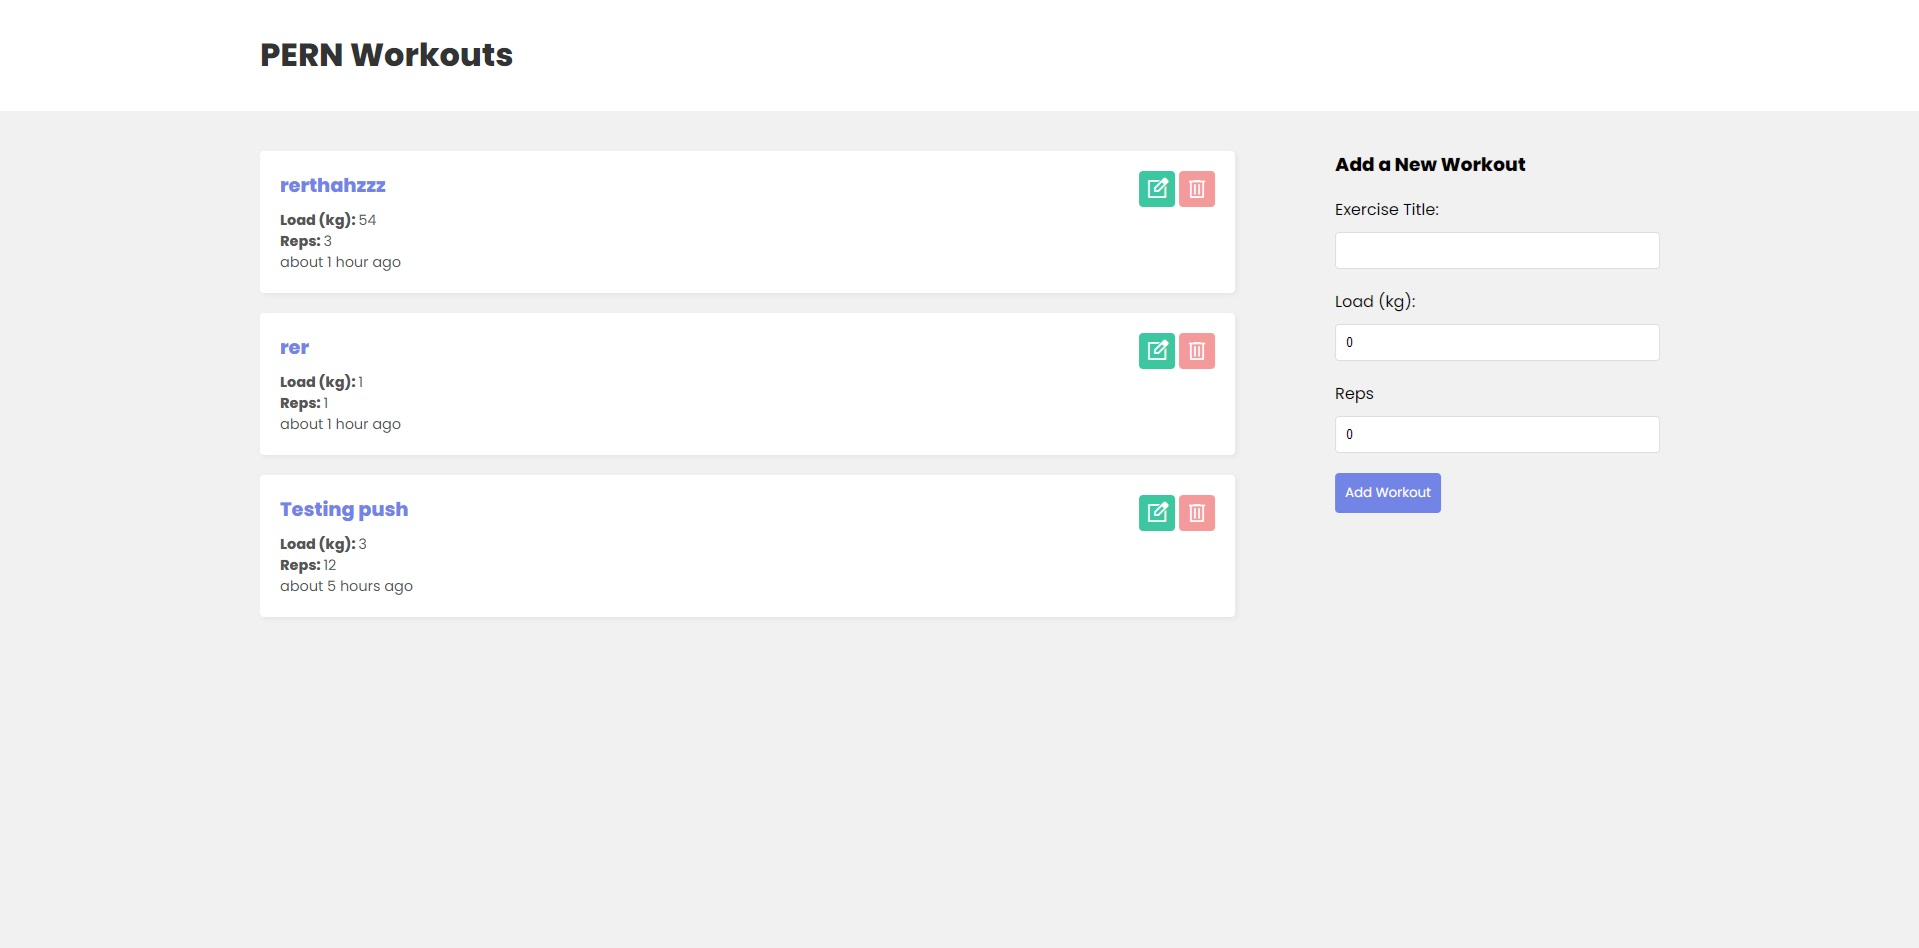
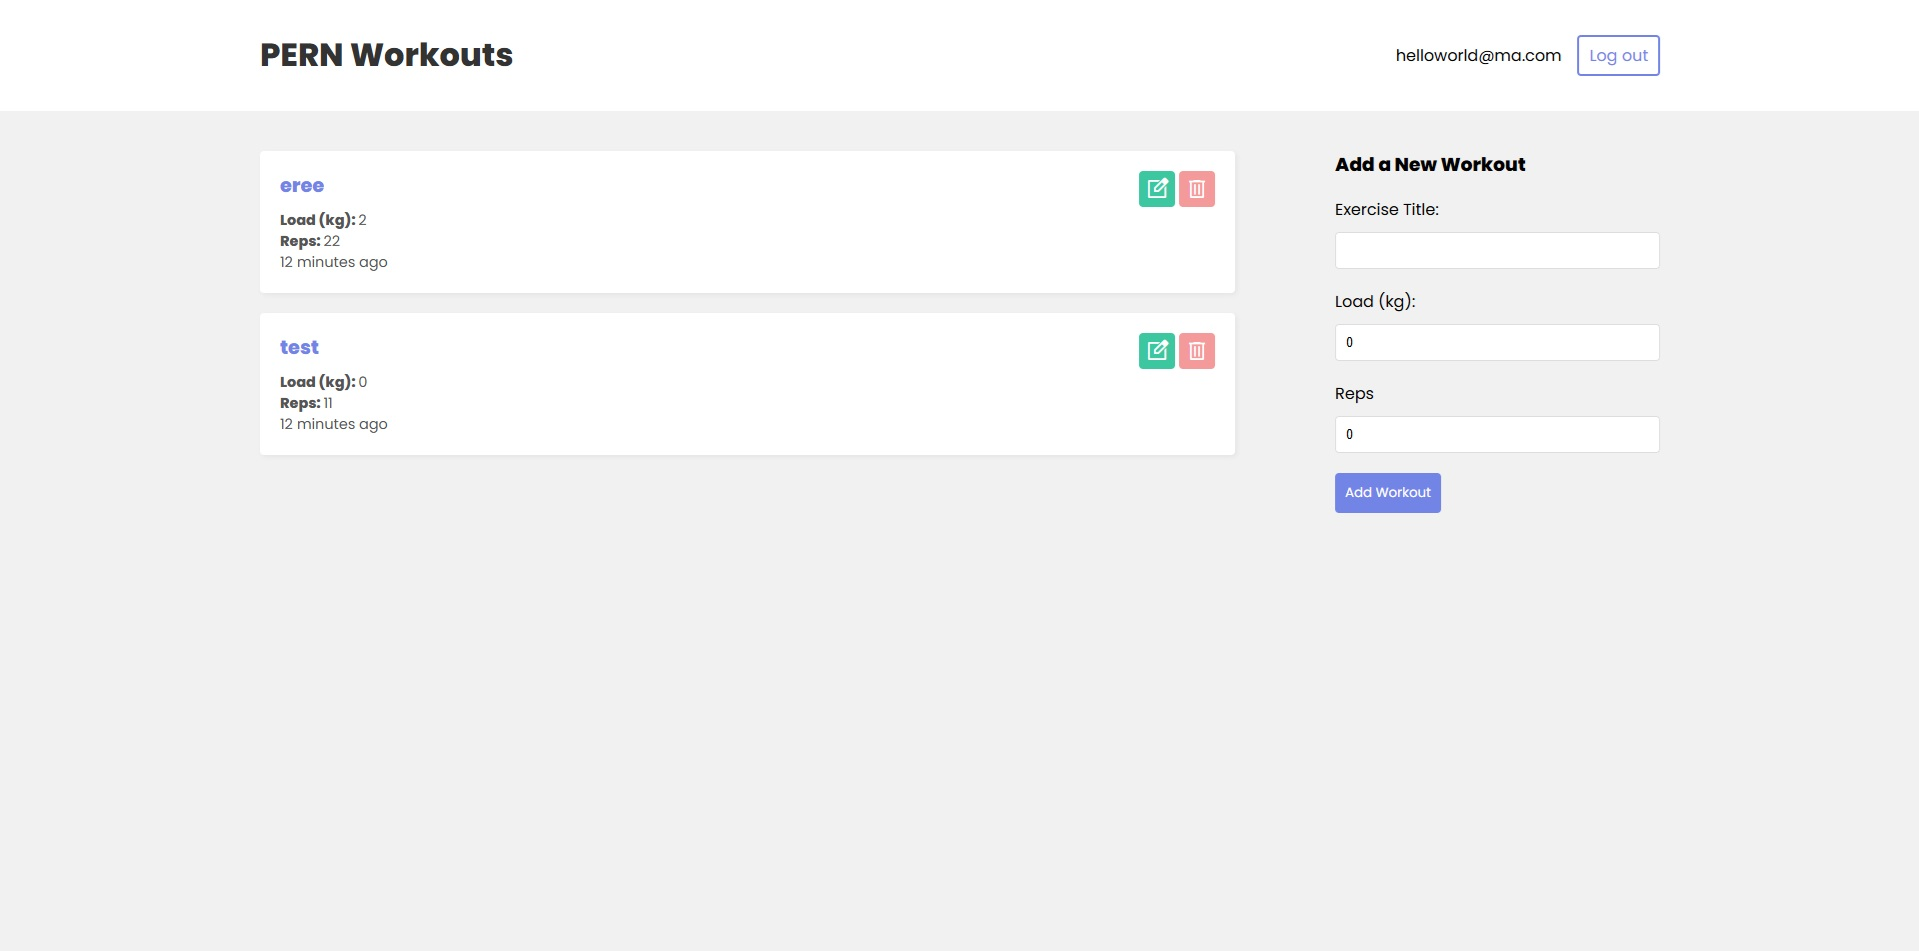
updated pern_workouts project

diff --git a/src/components/portfolio/projects/pern-workouts/index.tsx b/src/components/portfolio/projects/pern-workouts/index.tsx
@@ -3,6 +3,7 @@ import { FontAwesomeIcon } from "@fortawesome/react-fontawesome";
 import { useState } from "react";
 import { Carousel, Col } from "react-bootstrap";
 import PERN1 from "../../../../assets/imgs/pern-workouts/1.jpg";
+import PERN2 from "../../../../assets/imgs/pern-workouts/2.jpg";
 
 const PERNWorkouts = () => {
   const [isHovered, setIsHovered] = useState<boolean>(false);
@@ -27,6 +28,13 @@ const PERNWorkouts = () => {
               alt="PERN1"
             />
           </Carousel.Item>
+          <Carousel.Item>
+            <img
+              className="img-in-carousel d-block w-100"
+              src={PERN2}
+              alt="PERN2"
+            />
+          </Carousel.Item>
         </Carousel>
       </Col>
       <Col md={5}>
@@ -45,12 +53,13 @@ const PERNWorkouts = () => {
             >
               NetNinja
             </a>{" "}
-            but built with PERN stack with TypeScript.
+            but built with PERN stack with TypeScript and Postgres.
           </p>
 
           <p>
             {"> "} Tech Stack used: <b>Postgres</b>, <b>Express JS</b>,{" "}
-            <b>React/TypeScript</b>, <b>Node JS</b>.
+            <b>React/TypeScript</b>, <b>Node JS</b>, <b>React Context</b>,{" "}
+            <b>JWT Auth</b>.
           </p>
 
           <div className="mt-5 mb-4 text-end visit-website-block">
